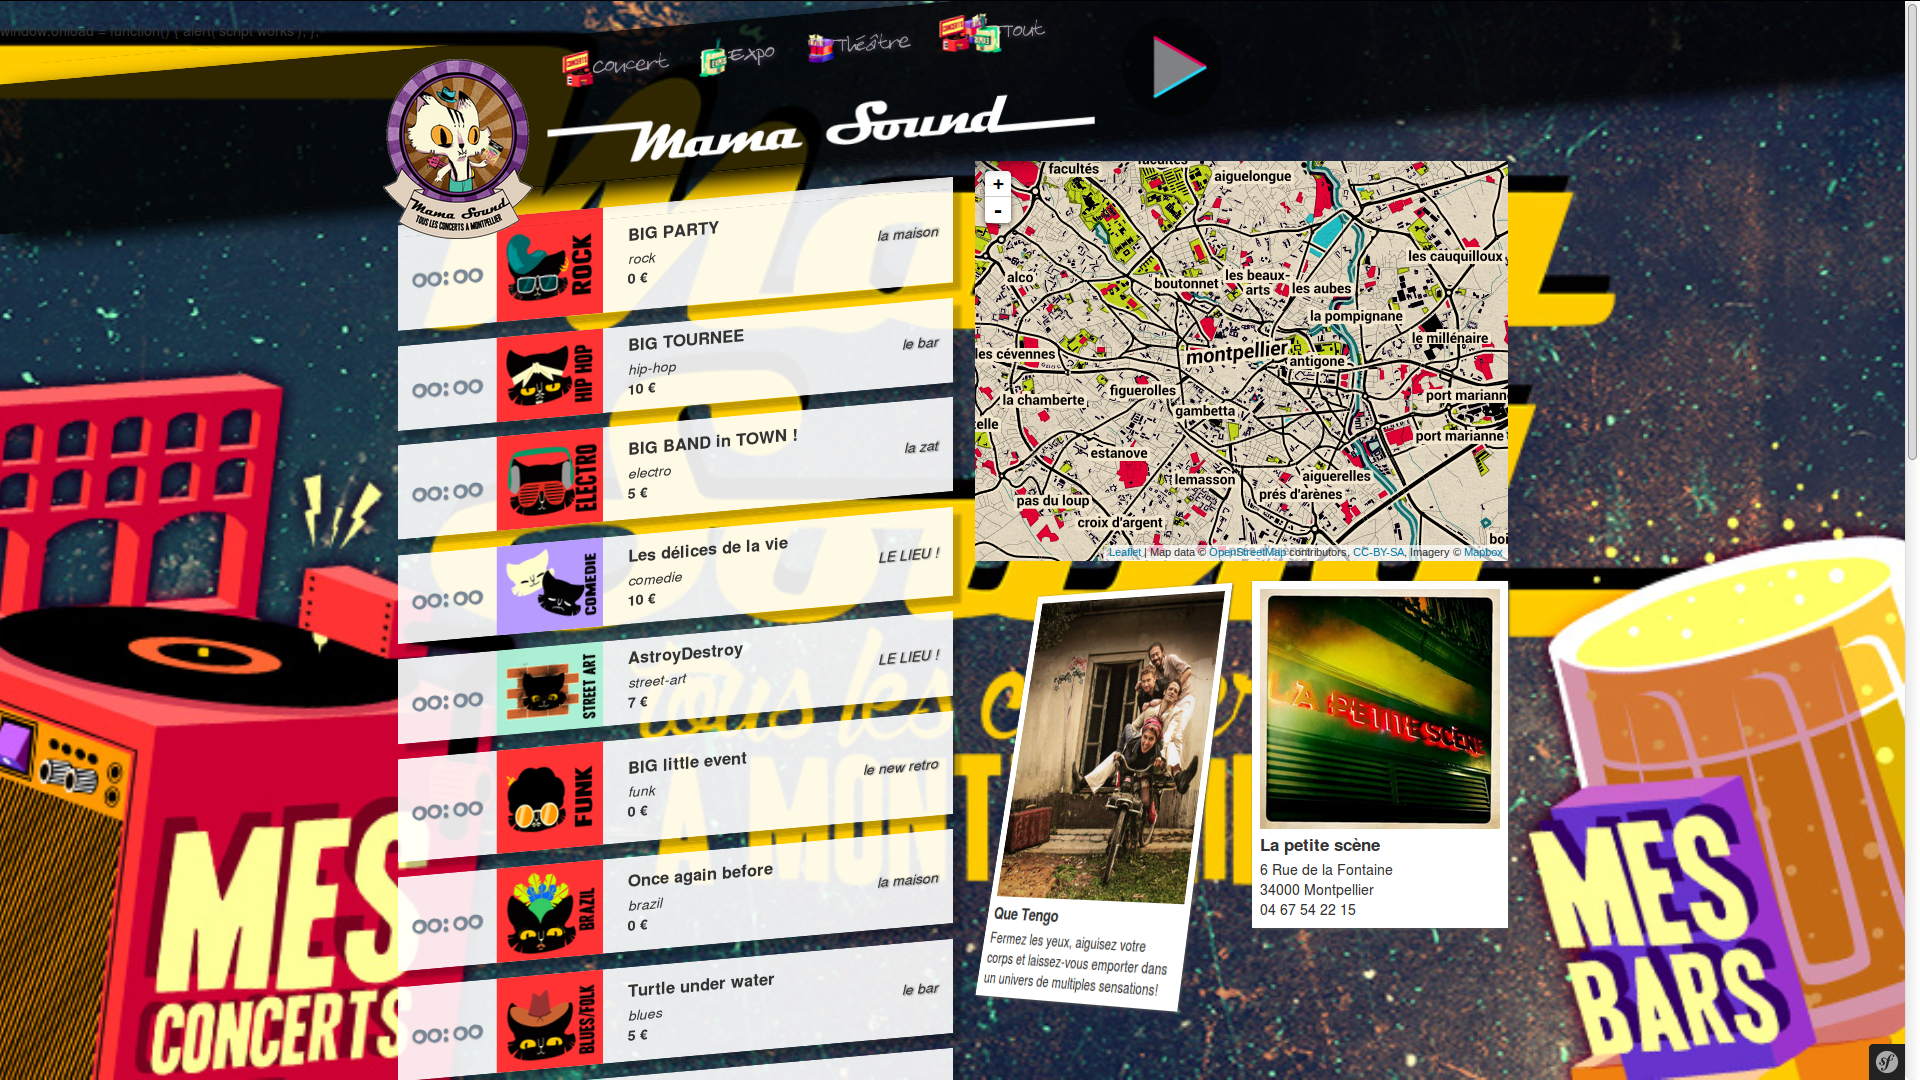
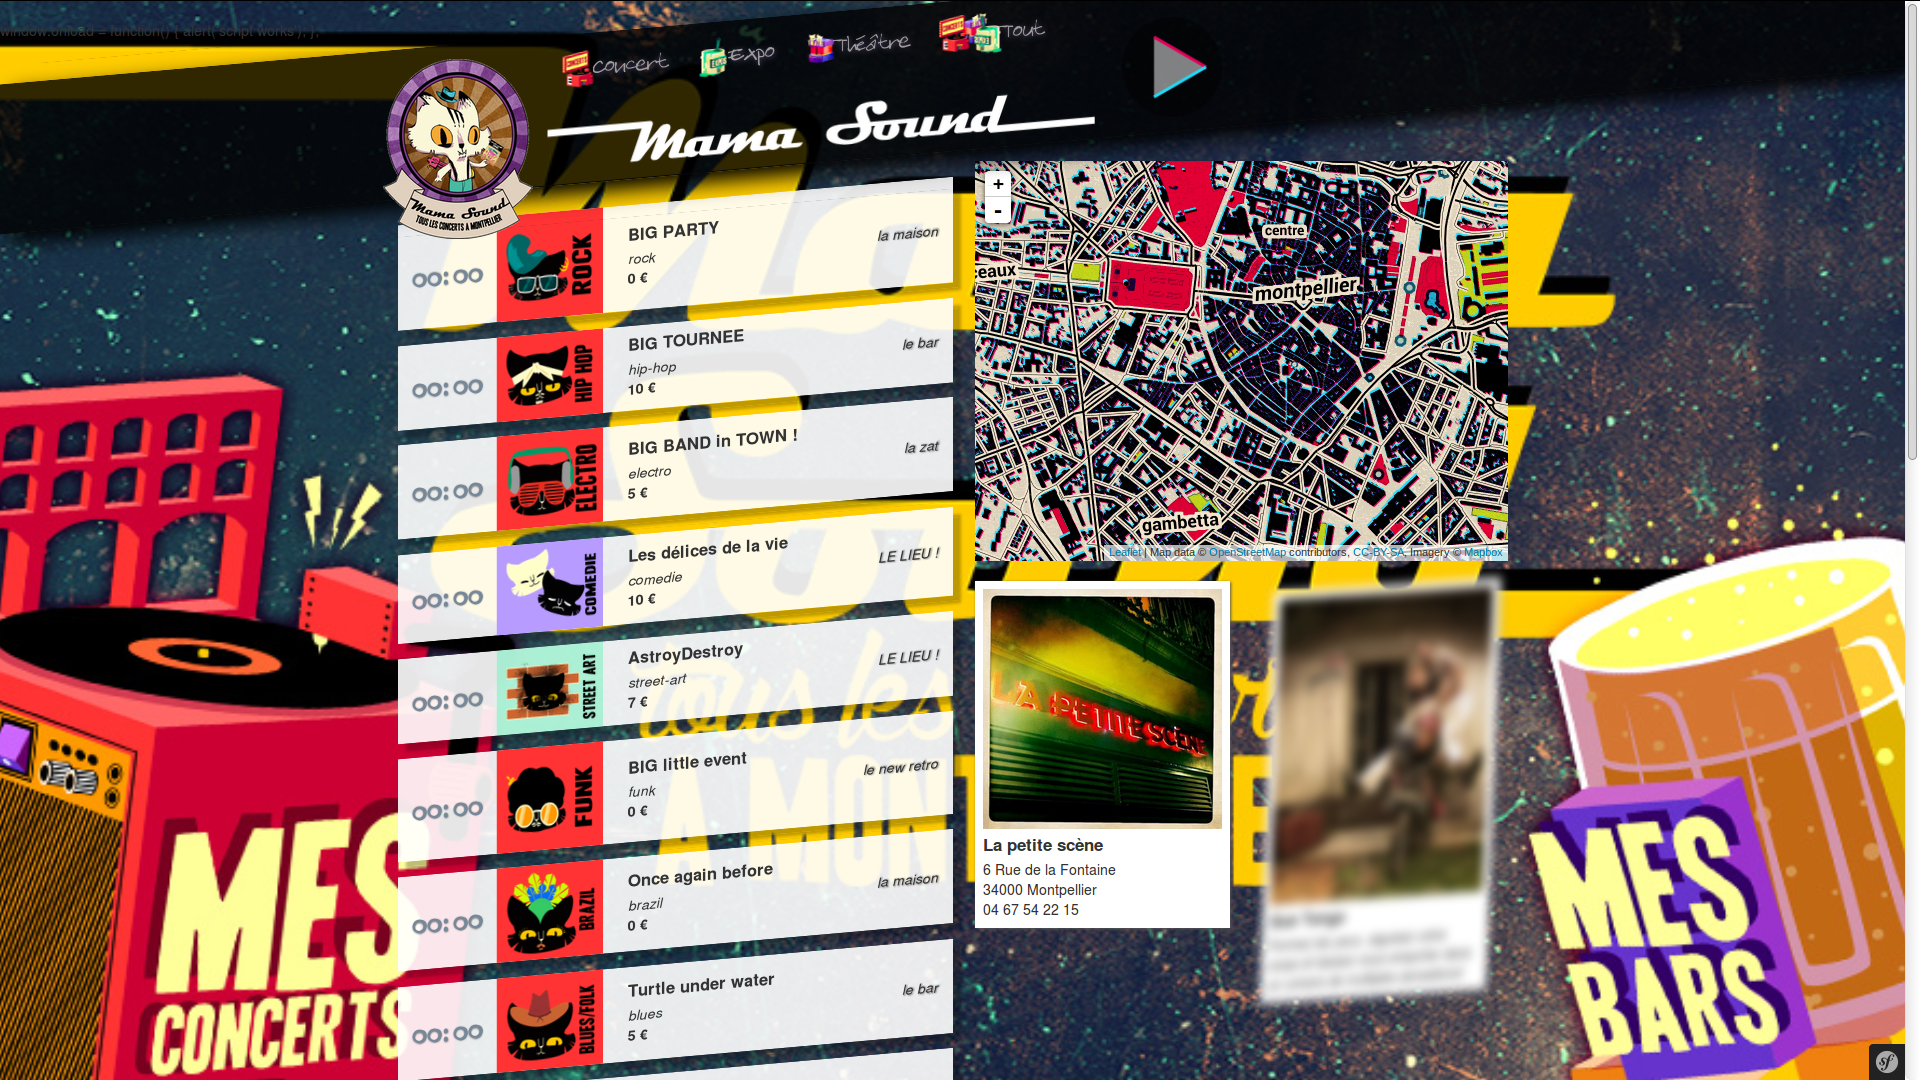
update : add screenshot file : mama-last-screenshot.png

diff --git a/web/css/starter-template.css b/web/css/starter-template.css
@@ -234,12 +234,31 @@ ul {
     box-shadow: 1px 1px 2px #555;
 }
 
-#scene3D{
-    perspective:2000px;
+#scene3D div{
+    perspective:800px;
+    transform: translateZ(-300px) rotate3d(.8, -2, .05, -30deg) ;
+    filter: blur(5px);
+    transition:all 250ms ease-in;
+
+}
+
+#scene3D div:hover{
+    perspective:800px;
+    filter: blur(0px);
+    transform: rotate3d(0,0,0,0deg);
 }
 
 .group-small {
-    float: left;
+    float: right;
+    width: 48%;
+    height: auto;
+    margin-top: 20px;
+    background-color: white;
+    padding: 8px;
+    box-shadow: 1px 1px 2px #555;
+}
+.group-small div:hover{
+    float: right;
     clear: both;
     width: 48%;
     height: auto;
@@ -247,7 +266,6 @@ ul {
     background-color: white;
     padding: 8px;
     box-shadow: 1px 1px 2px #555;
-    transform: rotate3d(.5, -1, .05, 40deg);
 }
 
 
@@ -269,7 +287,7 @@ ul {
 }
 
 .placeInfo-small {
-    float: right;
+    float: left;
     width: 48%;
     height: auto;
     margin-top: 20px;
